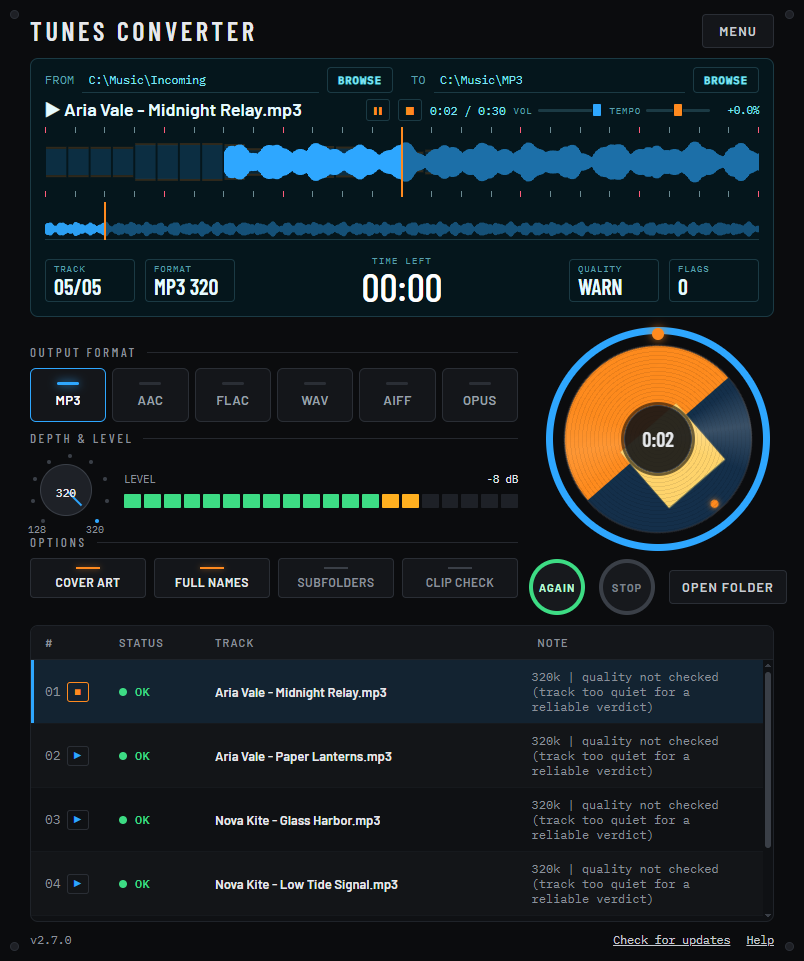
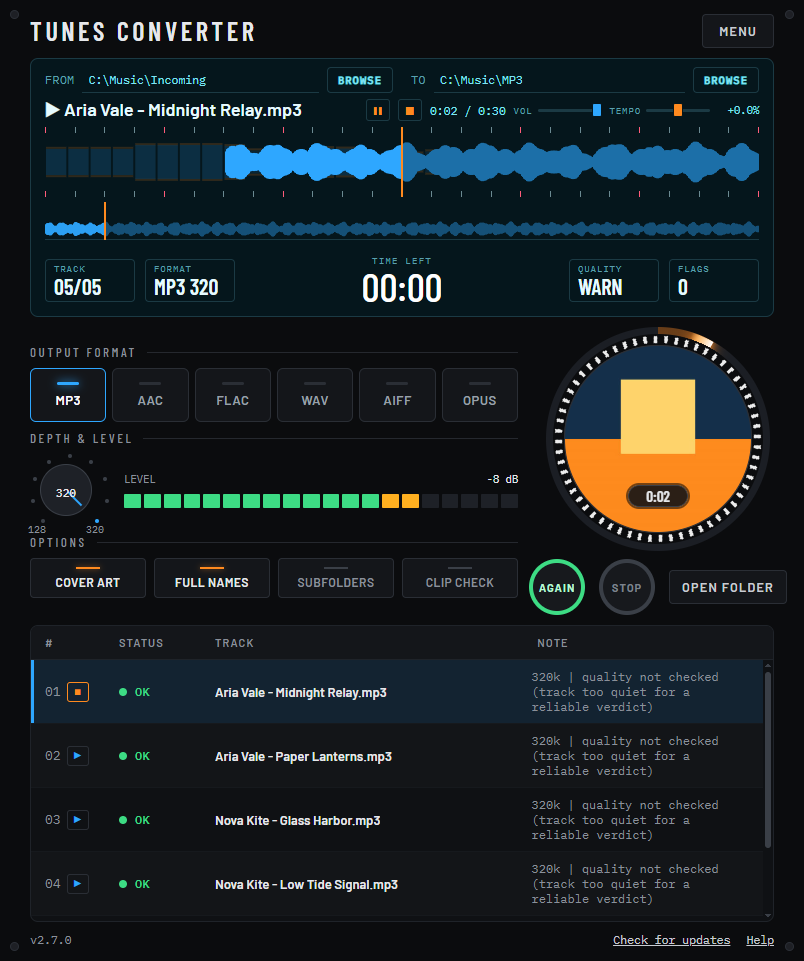
Playback: CDJ-3000 style platter (still art, sweeping playhead ring, LED rim, cue flag), PlatterSpin option for the spinning-record look

Changed region(s): [[0.653, 0.3122, 0.9639, 0.5931]]

diff --git a/src/renderer/styles.css b/src/renderer/styles.css
@@ -188,21 +188,21 @@ h1 { margin: 0; font: 600 26px/1.1 var(--cond); letter-spacing: 0.14em; text-tra
 .ring-mask { position: absolute; inset: 7px; border-radius: 50%; background: var(--bg); }
 /* the disc turns (33 1/3 rpm = 1.8 s per turn, scaled by tempo in JS via --rev); the progress ring and its marker stay put */
 .spin { position: absolute; inset: 0; border-radius: 50%; }
-.platter.spinning .spin { animation: platter-spin var(--rev, 1.8s) linear infinite; }
-.platter.spinning.paused .spin { animation-play-state: paused; }
+.platter.record .spin { animation: platter-spin var(--rev, 1.8s) linear infinite; }
+.platter.record.paused .spin { animation-play-state: paused; }
 @keyframes platter-spin { to { transform: rotate(360deg); } }
-@media (prefers-reduced-motion: reduce) { .platter.spinning .spin { animation: none; } }
+@media (prefers-reduced-motion: reduce) { .platter.record .spin { animation: none; } }
 .art { position: absolute; inset: 18px; display: none; border-radius: 50%; border: 1px solid var(--edge); background-size: cover; background-position: center; background-repeat: no-repeat; }
 .platter.has-art .art { display: block; }
 .spin-dot { position: absolute; left: 108px; top: 22px; width: 8px; height: 8px; border-radius: 50%; background: var(--orange); box-shadow: 0 0 6px var(--orange); display: none; }
-.platter.spinning .spin-dot { display: block; }
+.platter.record .spin-dot { display: block; }
 .sheen {
   position: absolute; inset: 18px; border-radius: 50%; pointer-events: none; display: none;
   background:
     conic-gradient(from 20deg, rgba(255, 255, 255, 0) 0 10%, rgba(255, 255, 255, 0.16) 17%, rgba(255, 255, 255, 0) 25% 60%, rgba(255, 255, 255, 0.1) 67%, rgba(255, 255, 255, 0) 75% 100%),
     repeating-radial-gradient(circle at 50% 50%, rgba(0, 0, 0, 0) 0 3px, rgba(0, 0, 0, 0.08) 3px 4px);
 }
-.platter.has-art .sheen { display: block; }
+.platter.has-art:not(.cdj) .sheen { display: block; }
 .platter.spinning .hub-l, .platter.spinning .hub-c { display: none; }
 .platter.spinning .hub-big { font-size: 40px; }
 .platter.spinning.has-art .hub { left: 78px; top: 78px; width: 68px; height: 68px; background: rgba(14, 16, 20, 0.88); box-shadow: 0 0 0 3px rgba(5, 5, 6, 0.55); }
@@ -326,3 +326,32 @@ h1 { margin: 0; font: 600 26px/1.1 var(--cond); letter-spacing: 0.14em; text-tra
 .overflow, .overflow body { overflow-y: auto; }
 .overflow .app { height: auto; min-height: 100vh; overflow: visible; }
 .overflow .main-view > .log { flex: none; height: 160px; }
+
+/* CDJ-3000 look while a track plays (the PlatterSpin setting switches to the spinning record): still art, a turning LED rim,
+   a playhead sweeping the ring (--ph, set every frame), the played part dimmer behind it, a cue pill at the top */
+.cdj-rim, .cdj-head, .cdj-cue { display: none; }
+.platter.cdj { background: conic-gradient(rgba(255, 140, 40, 0.38) 0 var(--ph, 0deg), #1b1e24 var(--ph, 0deg) 360deg); }
+.platter.cdj .marker { display: none; }
+.platter.cdj .cdj-rim {
+  display: block; position: absolute; inset: 0; border-radius: 50%; pointer-events: none;
+  background: repeating-conic-gradient(rgba(255, 255, 255, 0.92) 0 2deg, rgba(255, 255, 255, 0) 2deg 6deg);
+  -webkit-mask: radial-gradient(farthest-side, transparent calc(100% - 16px), #000 calc(100% - 16px) calc(100% - 9px), transparent calc(100% - 9px));
+  mask: radial-gradient(farthest-side, transparent calc(100% - 16px), #000 calc(100% - 16px) calc(100% - 9px), transparent calc(100% - 9px));
+  animation: platter-spin var(--rev, 1.8s) linear infinite;
+}
+.platter.cdj.paused .cdj-rim { animation-play-state: paused; }
+.platter.cdj .cdj-head {
+  display: block; position: absolute; inset: 0; border-radius: 50%; pointer-events: none;
+  transform: rotate(var(--ph, 0deg));
+  background: conic-gradient(from -12deg, rgba(255, 255, 255, 0) 0, rgba(255, 190, 110, 0.9) 4deg, #fff 12deg, rgba(255, 255, 255, 0) 12deg);
+  -webkit-mask: radial-gradient(farthest-side, transparent calc(100% - 7px), #000 calc(100% - 7px));
+  mask: radial-gradient(farthest-side, transparent calc(100% - 7px), #000 calc(100% - 7px));
+  filter: drop-shadow(0 0 4px var(--orange)) drop-shadow(0 0 8px rgba(255, 140, 40, 0.7));
+}
+.platter.cdj .cdj-cue {
+  display: block; position: absolute; left: 50%; top: 9px; transform: translateX(-50%); min-width: 14px; height: 14px; padding: 0 3px; box-sizing: border-box;
+  border-radius: 7px; font: 700 10px/14px var(--cond); text-align: center; color: #0b0c0e; box-shadow: 0 0 5px rgba(0, 0, 0, 0.7);
+}
+.platter.cdj .cdj-cue[hidden] { display: none; }
+.platter.cdj.has-art .hub { left: 82px; top: 158px; width: 60px; height: 22px; border-radius: 11px; background: rgba(14, 16, 20, 0.88); box-shadow: 0 0 0 2px rgba(5, 5, 6, 0.55); }
+.platter.cdj.has-art .hub-big { font-size: 15px; letter-spacing: 0; line-height: 1; }

diff --git a/src/renderer/renderer.js b/src/renderer/renderer.js
@@ -68,6 +68,7 @@
     renderReadouts();
     renderMeter();
     syncPlayable();
+    renderSpin();
     drawAll();
   }
 
@@ -335,7 +336,7 @@
     }
   }
 
-  function addFlag(res) {
+  function addFlag(res, row) {
     const note = `${res.note || ''}`;
     let color = null;
     let why = '';
@@ -346,6 +347,7 @@
     else if (['WARN', 'LOW', 'FAKE'].includes(res.status)) { color = COL.pink; why = `quality ${res.status}`; }
     if (!color) return;
     const n = flags.length;
+    if (row) { row.dataset.flag = String.fromCharCode(65 + (n % 26)); row.dataset.flagColor = color; } // the platter's cue pill reads these
     flags.push({ at: resultCount - 1, color });
     const m = document.createElement('span');
     m.className = 'flag';
@@ -423,6 +425,7 @@
     n.textContent = note || '';
     row.append(num, tag, body, n);
     addLine(row);
+    return row;
   }
   function clearLog() {
     $('log').textContent = '';
@@ -573,9 +576,24 @@
   function renderSpin() {
     const pl = $('track');
     const on = playState === 'playing';
+    const rec = on && Boolean(settings().PlatterSpin);
     pl.classList.toggle('spinning', on);
+    pl.classList.toggle('record', rec);
+    pl.classList.toggle('cdj', on && !rec);
     pl.classList.toggle('paused', on && Boolean(audio) && audio.paused);
     pl.style.setProperty('--rev', `${(1.8 / (1 + tempo / 100)).toFixed(3)}s`);
+    const cue = pl.querySelector('.cdj-cue');
+    const letter = on && !rec && playRow ? playRow.dataset.flag : '';
+    cue.hidden = !letter;
+    if (letter) { cue.textContent = letter; cue.style.background = playRow.dataset.flagColor || ''; }
+    if (!on || rec) pl.style.removeProperty('--ph');
+    else platterHead();
+  }
+  // CDJ look: the playhead angle follows the track position
+  function platterHead() {
+    const pl = $('track');
+    if (!pl.classList.contains('cdj') || !audio) return;
+    pl.style.setProperty('--ph', `${(playFrac() * 360).toFixed(2)}deg`);
   }
   function hubPlay() {
     if (playState !== 'playing' || !audio) return;
@@ -747,6 +765,7 @@
       const col = Math.round(playFrac() * mw);
       if (col !== lastMiniCol) { lastMiniCol = col; drawMini(); }
       hubPlay();
+      platterHead();
       if (analyser) liveMeter();
       eqRaf = requestAnimationFrame(loop);
     };
@@ -915,8 +934,8 @@
       if (ev.text) $('status').textContent = /^Converting \d+ of/.test(ev.text) && ev.file ? ev.file : ev.text;
     } else if (ev.type === 'result') {
       resultCount += 1;
-      addResult(ev);
-      addFlag(ev);
+      const logRow = addResult(ev);
+      addFlag(ev, logRow);
       // a converted track with no reading (silent file) clears the meter; skipped or failed ones leave it alone
       if (!ev.second && (ev.status === 'OK' || ev.status === 'WARN')) lastPeak = typeof ev.peak === 'number' ? ev.peak : null;
       renderMeter();

diff --git a/src/renderer/index.html b/src/renderer/index.html
@@ -74,6 +74,7 @@
     <label class="check"><input type="checkbox" data-key="SaveReport"> Save a report file after each run</label>
     <label class="check"><input type="checkbox" data-key="WatchFolder"> Watch the songs folder and convert new files automatically <span id="watchState" class="watch-state" hidden>WATCHING</span></label>
     <label class="check"><input type="checkbox" data-key="PlayPreview"> Play converted tracks from the results list (preview only, never changes files)</label>
+    <label class="check"><input type="checkbox" data-key="PlatterSpin"> Spin the cover art like a record (instead of the CDJ-3000 look)</label>
     <label class="check"><input type="checkbox" data-key="OpenWhenDone"> Open the output folder when finished</label>
   </section>
 
@@ -187,6 +188,9 @@
           <div id="art" class="art"></div>
           <span class="spin-dot"></span>
         </div>
+        <div class="cdj-rim" aria-hidden="true"></div>
+        <div class="cdj-head" aria-hidden="true"></div>
+        <span class="cdj-cue" aria-hidden="true" hidden></span>
         <div class="sheen" aria-hidden="true"></div>
         <div class="marker"><span></span></div>
         <div class="hub">

diff --git a/src/engine/settings.js b/src/engine/settings.js
@@ -38,6 +38,7 @@ function defaults(desktopDir) {
     SaveReport: false,
     WatchFolder: false,
     PlayPreview: true,
+    PlatterSpin: false,
     PlayerModel: 'off',
     Presets: [],
     OpenWhenDone: false,
@@ -95,7 +96,7 @@ function merge(base, raw) {
   if (raw.SecondFormat === 'off' || FORMAT_KEYS.includes(raw.SecondFormat)) s.SecondFormat = raw.SecondFormat;
   if (MODES.includes(raw.DuplicateMode)) s.DuplicateMode = raw.DuplicateMode;
   if (raw.PlayerModel === 'off' || PLAYER_KEYS.includes(raw.PlayerModel)) s.PlayerModel = raw.PlayerModel;
-  for (const k of ['Recurse', 'CoverArt', 'JoinArtists', 'ClipCheck', 'OpenWhenDone', 'CopyMode', 'HealthCheck', 'ArtResize', 'KeepDates', 'SaveReport', 'WatchFolder', 'PlayPreview']) {
+  for (const k of ['Recurse', 'CoverArt', 'JoinArtists', 'ClipCheck', 'OpenWhenDone', 'CopyMode', 'HealthCheck', 'ArtResize', 'KeepDates', 'SaveReport', 'WatchFolder', 'PlayPreview', 'PlatterSpin']) {
     if (typeof raw[k] === 'boolean') s[k] = raw[k];
   }
   if (Array.isArray(raw.Presets)) s.Presets = cleanPresets(raw.Presets);

diff --git a/tests/v270.test.js b/tests/v270.test.js
@@ -272,6 +272,10 @@ test('settings: PlayPreview defaults on, boolean only, not a preset key', () => 
   assert.equal(settings.merge(d, { PlayPreview: 'no' }).PlayPreview, true);
   assert.equal(settings.merge(d, { PlayPreview: 0 }).PlayPreview, true);
   assert.equal(settings.PRESET_KEYS.includes('PlayPreview'), false);
+  assert.equal(d.PlatterSpin, false);
+  assert.equal(settings.merge(d, { PlatterSpin: true }).PlatterSpin, true);
+  assert.equal(settings.merge(d, { PlatterSpin: 'yes' }).PlatterSpin, false);
+  assert.equal(settings.PRESET_KEYS.includes('PlatterSpin'), false);
 });
 
 test('rangeFor: whole file, ranges, suffix ranges, bad ranges', () => {

diff --git a/docs/HOWTO.md b/docs/HOWTO.md
@@ -114,7 +114,7 @@ Already have ffmpeg somewhere else? Press **Locate ffmpeg...** and choose the fo
 
 **Share presets:** under the presets in the Menu, **Export / Import presets as a file** saves your presets to a small file or adds presets from one. Imported names that already exist are skipped, and every value is checked.
 
-**Playback preview:** on by default (MENU: *Play converted tracks from the results list*). Click a converted track (OK or WARN) in the list to hear it; a track skipped as a duplicate, or because it already exists, plays the converted copy in the output folder. Click it again, or the stop button on the screen, to stop. While playing: the screen shows a scrolling waveform with the live EQ behind it; the strip under it shows the whole track, click or drag it to skim; the platter spins (with the track's cover art if it has one) and the level meter shows the live level. Controls on the screen: pause, stop, VOL, and TEMPO (+/-8%, double-click to reset; like a CDJ it changes pitch too). Keys: Space pause, Left/Right 5 seconds, Up/Down volume. The track is decoded by ffmpeg into a temporary WAV so every format plays; the temporary file is deleted when you stop, start another track or quit. Only files in the output folder can be played, and playback never changes any file. It needs ffmpeg, like converting.
+**Playback preview:** on by default (MENU: *Play converted tracks from the results list*). Click a converted track (OK or WARN) in the list to hear it; a track skipped as a duplicate, or because it already exists, plays the converted copy in the output folder. Click it again, or the stop button on the screen, to stop. While playing: the screen shows a scrolling waveform with the live EQ behind it; the strip under it shows the whole track, click or drag it to skim; the platter shows the CDJ-3000 look (still cover art, a white rim that turns, a playhead sweeping the ring; or, with the Settings box ticked, a spinning record) and the level meter shows the live level. Controls on the screen: pause, stop, VOL, and TEMPO (+/-8%, double-click to reset; like a CDJ it changes pitch too). Keys: Space pause, Left/Right 5 seconds, Up/Down volume. The track is decoded by ffmpeg into a temporary WAV so every format plays; the temporary file is deleted when you stop, start another track or quit. Only files in the output folder can be played, and playback never changes any file. It needs ffmpeg, like converting.
 
 **Watch folder:** off by default. When on, new music files that appear in the songs folder (and its sub-folders if included) after you switch it on are converted automatically, once each, after they have finished copying. Files already in the folder are not touched. It stops when you switch it off or close the app.
 
@@ -240,6 +240,7 @@ the app is closed:
 | `PlayerModel`  | `off`               | `off` or a CDJ/XDJ model key such as `cdj3000`, `xdjrx3` |
 | `Presets`      | empty               | list of saved presets, each a name plus the conversion options (managed in Settings; up to 20) |
 | `PlayPreview` | `true` | `false` turns off playing converted tracks from the list |
+| `PlatterSpin` | `false` | `true` spins the cover art like a record instead of the CDJ-3000 look |
 | `OpenWhenDone` | `false`             | `true` opens the output folder after a run |
 | `Recurse`      | `false`             | `true` also converts sub-folders and mirrors them in the output |
 | `WinW`, `WinH` | `820`, `1000`      | window size, saved when you close the app |

diff --git a/README.md b/README.md
@@ -58,7 +58,7 @@ MP3 · AAC · FLAC · WAV · AIFF · Opus — with correct names, tags and an op
 - **Save report (optional):** a CSV report with each file's status, notes, flags and peak after every run.
 
 **The app**
-- **Playback preview (optional, on by default):** click a converted track in the list to hear it (a skipped duplicate plays the converted copy it matched). A scrolling waveform, skim bar, live EQ and level meter, pause, volume and a +/-8% tempo fader, plus a spinning platter that shows the track's cover art. It plays a temporary copy decoded by ffmpeg (deleted when you stop or quit); your files are never changed.
+- **Playback preview (optional, on by default):** click a converted track in the list to hear it (a skipped duplicate plays the converted copy it matched). A scrolling waveform, skim bar, live EQ and level meter, pause, volume and a +/-8% tempo fader, plus a CDJ-3000-style platter (still cover art, white rim, sweeping playhead; a spinning-record look is in Settings). It plays a temporary copy decoded by ffmpeg (deleted when you stop or quit); your files are never changed.
 - **Built like DJ gear:** a CDJ-style screen with a live waveform while it converts, a round progress platter,
   lit format pads, and a track list with colour flags (red clipping, orange duplicate, pink quality, teal health,
   violet player).
